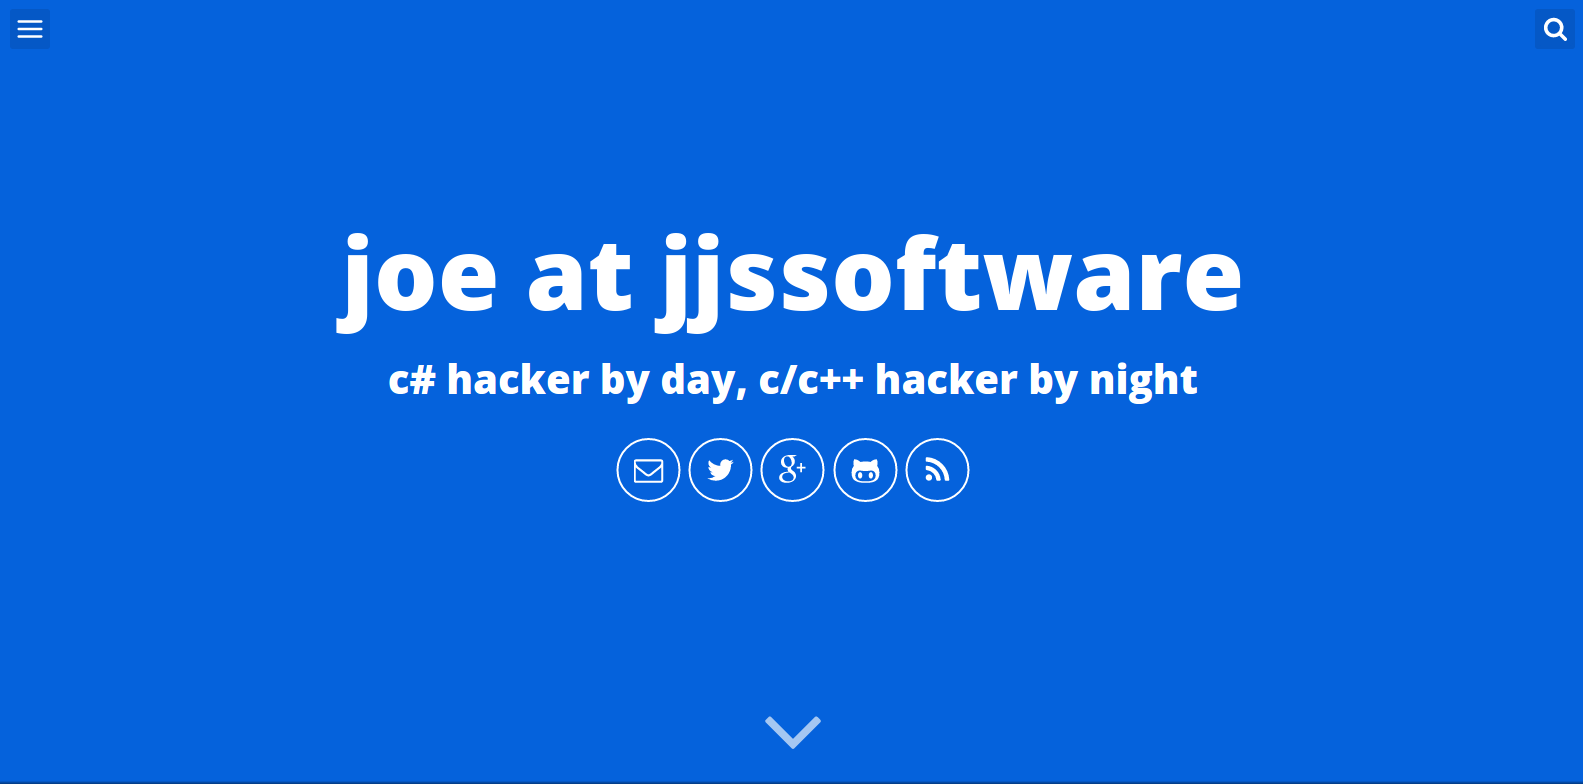
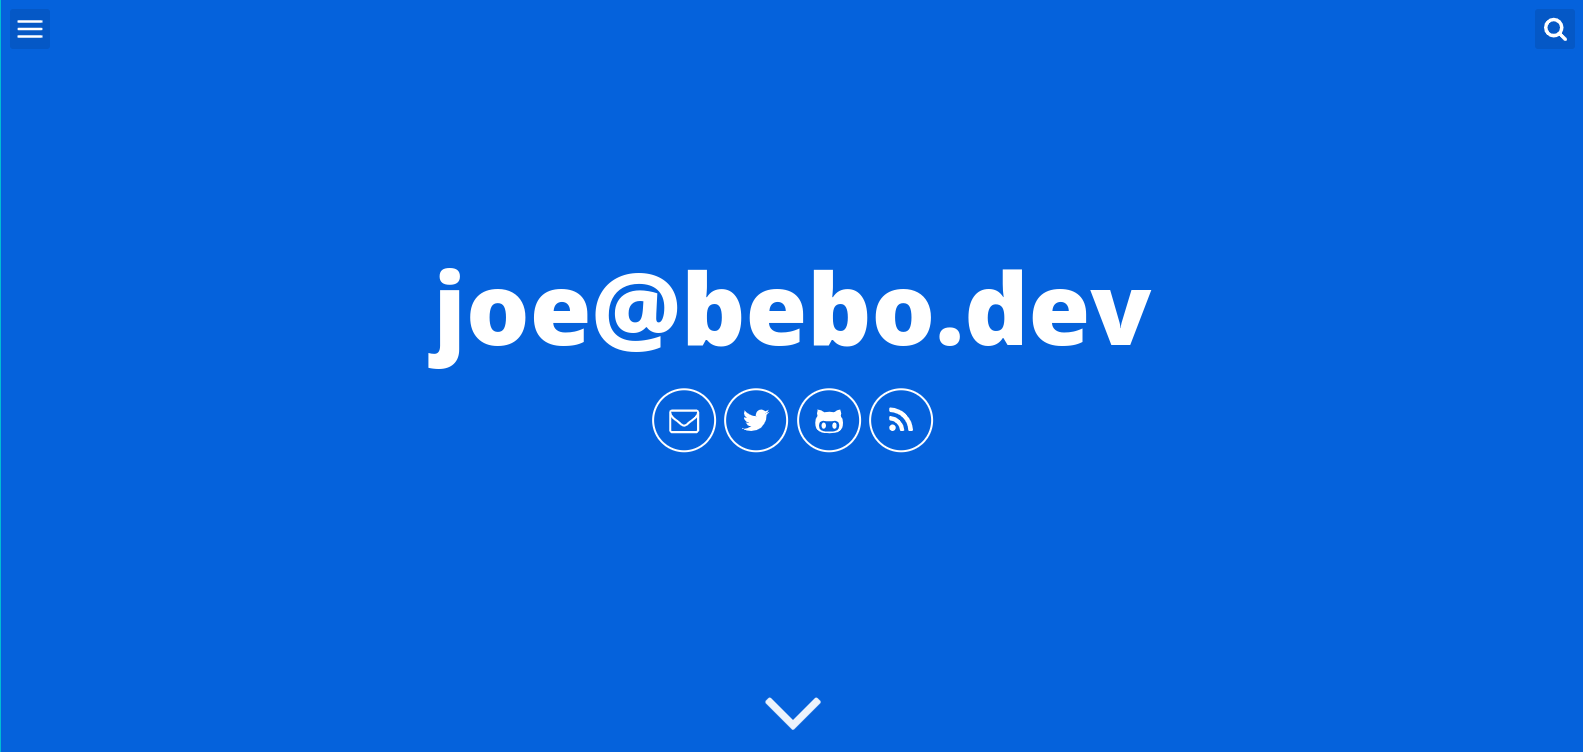
readme update

diff --git a/Readme.md b/Readme.md
@@ -2,10 +2,8 @@
 
 ![Screenshot](screenshot.png)
 
-This repo is the source for the github pages based [jjssoftware.github.io](https://jjssoftware.github.io) blog built with the Will Jekyll Template: [demo](http://willianjusten.com.br/will-jekyll-template)
-
-Thanks to [Willian Justen](https://willianjusten.com.br/) for building this great [jekyll theme](https://github.com/willianjusten/will-jekyll-template)
+This repo is the source for the github pages [bebo-dot-dev.github.io](https://bebo-dot-dev.github.io/) blog
 
 ```
-jekyll build -d ../jjssoftware.github.io/
+jekyll build -d ../bebo-dot-dev.github.io/
 ```
